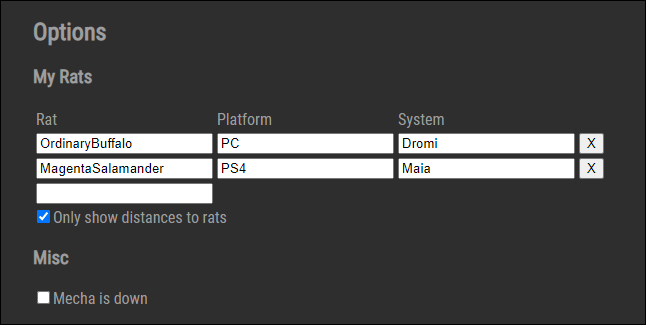
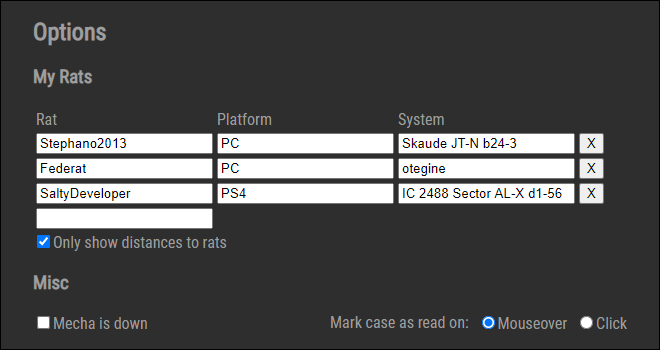
#19 auto-spatch close now picks the first limpet correctly * added option to mouseover to set case as read

diff --git a/src/components/case.card.tsx b/src/components/case.card.tsx
@@ -3,6 +3,7 @@ import React from "react";
 import CopyToClipboard from "react-copy-to-clipboard";
 
 import CaseHelper from "../core/case-helper";
+import Config from "../core/config";
 import { EventDispatcher } from "../core/event.dispatcher";
 import { BaseMessage, Callout, CalloutJumps, CaseAssign, NickChange } from "../core/log.parser";
 import Utils from "../core/utils";
@@ -54,13 +55,12 @@ interface CaseRatState {
         bc?: boolean;
         fuel?: boolean;
     };
+    limpet?: number;
 }
 
 type RatState = "fr" | "wr" | "bc" | "fuel";
 
 class CaseCard extends React.Component<CaseCardProps, CaseCardState> {
-    private firstRat: string = "";
-    private container: HTMLDivElement | null = null;
     private mounted = false;
 
     constructor(props: CaseCardProps) {
@@ -116,6 +116,7 @@ class CaseCard extends React.Component<CaseCardProps, CaseCardState> {
         this.setNotOpen = this.setNotOpen.bind(this);
         this.setExclusion = this.setExclusion.bind(this);
         this.setLifeSupport = this.setLifeSupport.bind(this);
+        this.setRead = this.setRead.bind(this);
     }
 
     render() {
@@ -134,12 +135,8 @@ class CaseCard extends React.Component<CaseCardProps, CaseCardState> {
                     Utils.ternary(this.state.cr, "code-red"),
                     Utils.ternary(this.state.unread, "case-unread"),
                 ].join(" ")}
-                onClick={(e: React.MouseEvent) => {
-                    if (this.state.unread) {
-                        this.updateState({ unread: { $set: false } });
-                    }
-                }}
-                ref={(el) => (this.container = el)}
+                onMouseEnter={this.setRead}
+                onClick={this.setRead}
             >
                 <div className="case-card-header">
                     <div
@@ -235,7 +232,7 @@ class CaseCard extends React.Component<CaseCardProps, CaseCardState> {
                     color: this.state.rats[rat].assigned ? "green" : "",
                 }}
             >
-                {rat} {rat === this.firstRat ? "*" : ""}
+                {rat} {this.state.rats[rat].limpet === 0 ? "*" : ""}
             </span>
         );
     }
@@ -320,9 +317,7 @@ class CaseCard extends React.Component<CaseCardProps, CaseCardState> {
             for (const key of ["fr", "wr", "bc"]) {
                 rats[data.rat].state[key as RatState] = undefined;
             }
-            if (!this.firstRat) {
-                this.firstRat = data.rat;
-            }
+            rats[data.rat].limpet = Object.keys(rats).filter((rat) => rats[rat].state.fuel).length - 1;
         }
         this.updateState({
             rats: { $set: rats },
@@ -433,6 +428,12 @@ class CaseCard extends React.Component<CaseCardProps, CaseCardState> {
                 rats: { $set: rats },
                 unread: { $set: true },
             });
+        }
+    }
+
+    private setRead(e: React.MouseEvent) {
+        if (this.state.unread && e.type === Config.caseReadOnEvent) {
+            this.updateState({ unread: { $set: false } });
         }
     }
 

diff --git a/src/components/options.tsx b/src/components/options.tsx
@@ -33,7 +33,7 @@ class Options extends React.Component<OptionsProps, OptionsState> {
                     </label>
                 </div>
                 <h3>Misc</h3>
-                <div>
+                <div className="option-block columns">
                     <label>
                         <input
                             type="checkbox"
@@ -45,6 +45,33 @@ class Options extends React.Component<OptionsProps, OptionsState> {
                         />
                         Mecha is down
                     </label>
+                    <div className="option-entry option-entry-radio">
+                        <span>Mark case as read on:</span>
+                        <label>
+                            <input
+                                type="radio"
+                                name="case_read-on-event"
+                                {...{ checked: Config.caseReadOnEvent === "mouseenter" }}
+                                onChange={(e) => {
+                                    Config.caseReadOnEvent = "mouseenter";
+                                    this.forceUpdate();
+                                }}
+                            />
+                            Mouseover
+                        </label>
+                        <label>
+                            <input
+                                type="radio"
+                                name="case_read-on-event"
+                                {...{ checked: Config.caseReadOnEvent === "click" }}
+                                onChange={(e) => {
+                                    Config.caseReadOnEvent = "click";
+                                    this.forceUpdate();
+                                }}
+                            />
+                            Click
+                        </label>
+                    </div>
                 </div>
             </div>
         );

diff --git a/src/core/dispatch-text/dispatch-text.ts b/src/core/dispatch-text/dispatch-text.ts
@@ -61,7 +61,7 @@ export default abstract class DispatchTextBase {
 
     public getClose() {
         if (!Config.mechaDown) {
-            return `!close ${this.state.id} ${this.getFuelRats()[0] || ""}`;
+            return `!close ${this.state.id} ${this.getFirstLimpet() || ""}`;
         }
         return "";
     }
@@ -106,6 +106,11 @@ export default abstract class DispatchTextBase {
 
     public getFuelRats() {
         return this.getAssignedRats().filter((rat) => this.state.rats[rat] && this.state.rats[rat].state.fuel === true);
+    }
+
+    public getFirstLimpet() {
+        console.log(this.state.rats);
+        return this.getAssignedRats().find((rat) => this.state.rats[rat].limpet === 0);
     }
 
     public getBCRats() {

diff --git a/src/App.css b/src/App.css
@@ -142,7 +142,7 @@ div#dispatchSearch > section > a > span {
 div#options {
     position: fixed;
     top: 5vh;
-    width: 580px;
+    min-width: 580px;
     height: auto;
     left: calc(calc(100vw - 580px) / 2);
     display: block;
@@ -151,6 +151,17 @@ div#options {
     z-index: var(--z-options);
     padding: 1em 2em;
     overflow-y: auto;
+}
+
+div#options div.option-block.columns {
+    display: grid;
+    grid-template-columns: repeat(2, 1fr);
+}
+
+div#options div.option-entry.option-entry-radio {
+    display: flex;
+    flex-direction: row;
+    gap: 1ch;
 }
 
 div#mechaDownNotif {

diff --git a/src/core/config.ts b/src/core/config.ts
@@ -105,6 +105,15 @@ export default class Config {
         localStorage.mechaDown = value;
         EventDispatcher.dispatch("mecha.status", this, value);
     }
+
+    public static get caseReadOnEvent(): "mouseenter" | "click" {
+        return localStorage["case.read-on-event"] || Config.get("case.read-on-event") || "click";
+    }
+
+    public static set caseReadOnEvent(value: "mouseenter" | "click") {
+        Config.set("case.read-on-event", value);
+        localStorage["case.read-on-event"] = value;
+    }
 }
 
 declare global {

diff --git a/src/components/case.controller.tsx b/src/components/case.controller.tsx
@@ -34,7 +34,9 @@ class CaseController extends React.Component<CaseControllerProps, CaseController
     render() {
         return (
             <div id="case-cards-wrapper" className="main-ui-element">
-                <div id="case-cards">{this.state.cases}</div>
+                <div id="case-cards" className="main-ui-element">
+                    {this.state.cases}
+                </div>
             </div>
         );
     }

diff --git a/README.md b/README.md
@@ -57,6 +57,7 @@ Preview:
 -   allows you to save your rats and their systems, so you can see the distance from the client to them, instead of the waypoints
 -   toggle between showing distances to a mix of rat + waypoints and only rats
 -   manual Mecha-down toggle
+-   mark cases as read by clicking on them or hovering
 
 ## Installation
 
